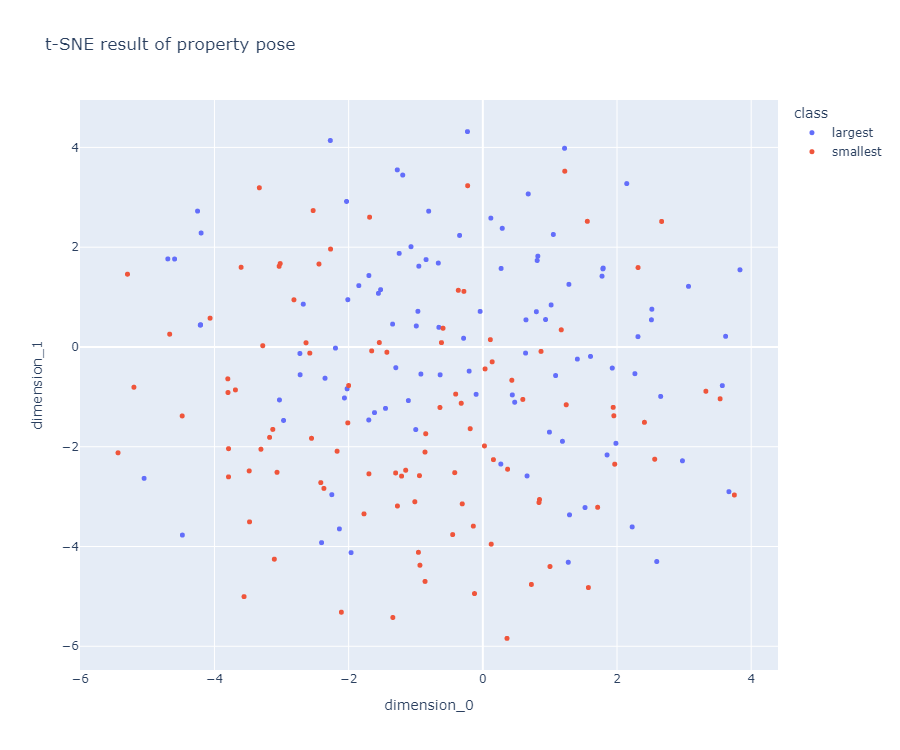
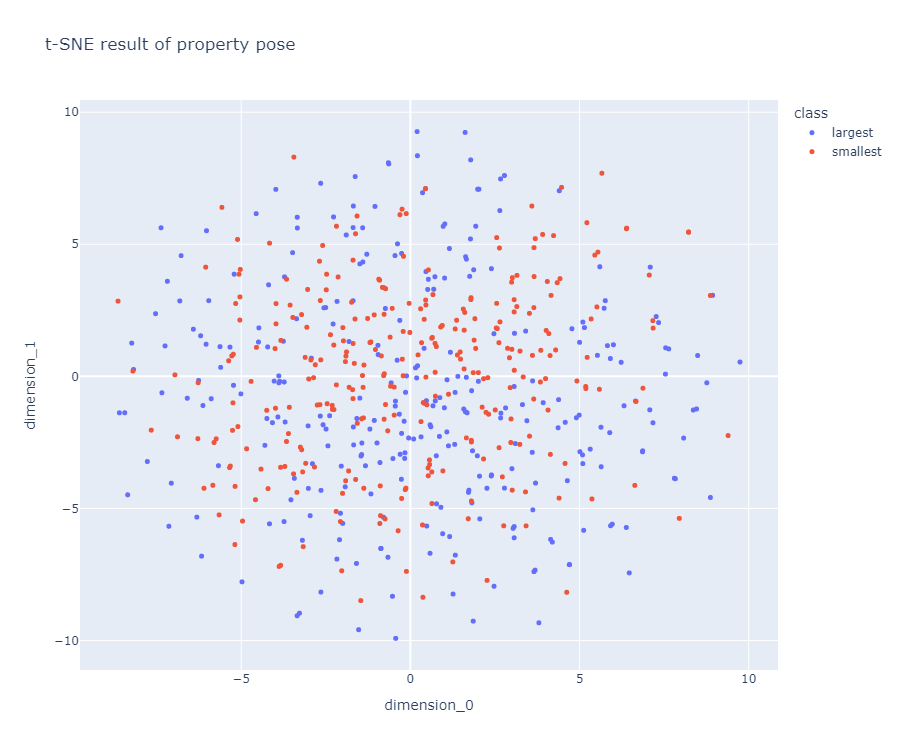
ADD: test result with 60K samples & top/bottom 300

diff --git a/2025_05_02_OhLoRA_v2/stylegan/stylegan_vectorfind_v6/run_vector_find.py b/2025_05_02_OhLoRA_v2/stylegan/stylegan_vectorfind_v6/run_vector_find.py
@@ -35,7 +35,7 @@ BATCH_SIZE = 20
 #                                    'mouth_cnn_score': list(float),
 #                                    'pose_cnn_score': list(float)}
 
-def sample_z_and_compute_property_scores(finetune_v1_generator, property_score_cnn, n=12000):
+def sample_z_and_compute_property_scores(finetune_v1_generator, property_score_cnn, n=60000):
     save_dir = f'{PROJECT_DIR_PATH}/stylegan/stylegan_vectorfind_v6/inference_test_during_training'
 
     z = np.random.normal(0, 1, size=(n, ORIGINAL_HIDDEN_DIMS_Z)).astype(np.float64)
@@ -101,7 +101,7 @@ def sample_z_and_compute_property_scores(finetune_v1_generator, property_score_c
 #                          'mouth_largest': list(int), 'mouth_smallest': list(int),
 #                          'pose_largest': list(int), 'pose_smallest': list(int)}
 
-def extract_best_and_worst_k_images(property_scores, k=100):
+def extract_best_and_worst_k_images(property_scores, k=300):
 
     # sort scores with index
     eyes_cnn_scores_with_idx = []

diff --git a/2025_05_02_OhLoRA_v2/stylegan/stylegan_vectorfind_v6/svm_train_report/svm_train_report.md b/2025_05_02_OhLoRA_v2/stylegan/stylegan_vectorfind_v6/svm_train_report/svm_train_report.md
@@ -1,3 +1,37 @@
+## 2025.05.06 18:27
+
+* total synthesized samples = **60,000**
+* use each property score top **300 (= 0.50%)** & bottom **300 (= 0.50%)** for SVM training
+
+```
+training SVM for eyes ...
+accuracy          : 0.8083
+recall    (large) : 0.8167
+precision (large) : 0.8033
+F1 score  (large) : 0.8099
+recall    (small) : 0.8000
+precision (small) : 0.8136
+F1 score  (small) : 0.8067
+
+training SVM for mouth ...
+accuracy          : 0.8083
+recall    (large) : 0.8333
+precision (large) : 0.7937
+F1 score  (large) : 0.8130
+recall    (small) : 0.7833
+precision (small) : 0.8246
+F1 score  (small) : 0.8034
+
+training SVM for pose ...
+accuracy          : 0.9667
+recall    (large) : 0.9833
+precision (large) : 0.9516
+F1 score  (large) : 0.9672
+recall    (small) : 0.9500
+precision (small) : 0.9828
+F1 score  (small) : 0.9661
+```
+
 ## 2025.05.06 17:45
 
 * total synthesized samples = **12,000**
